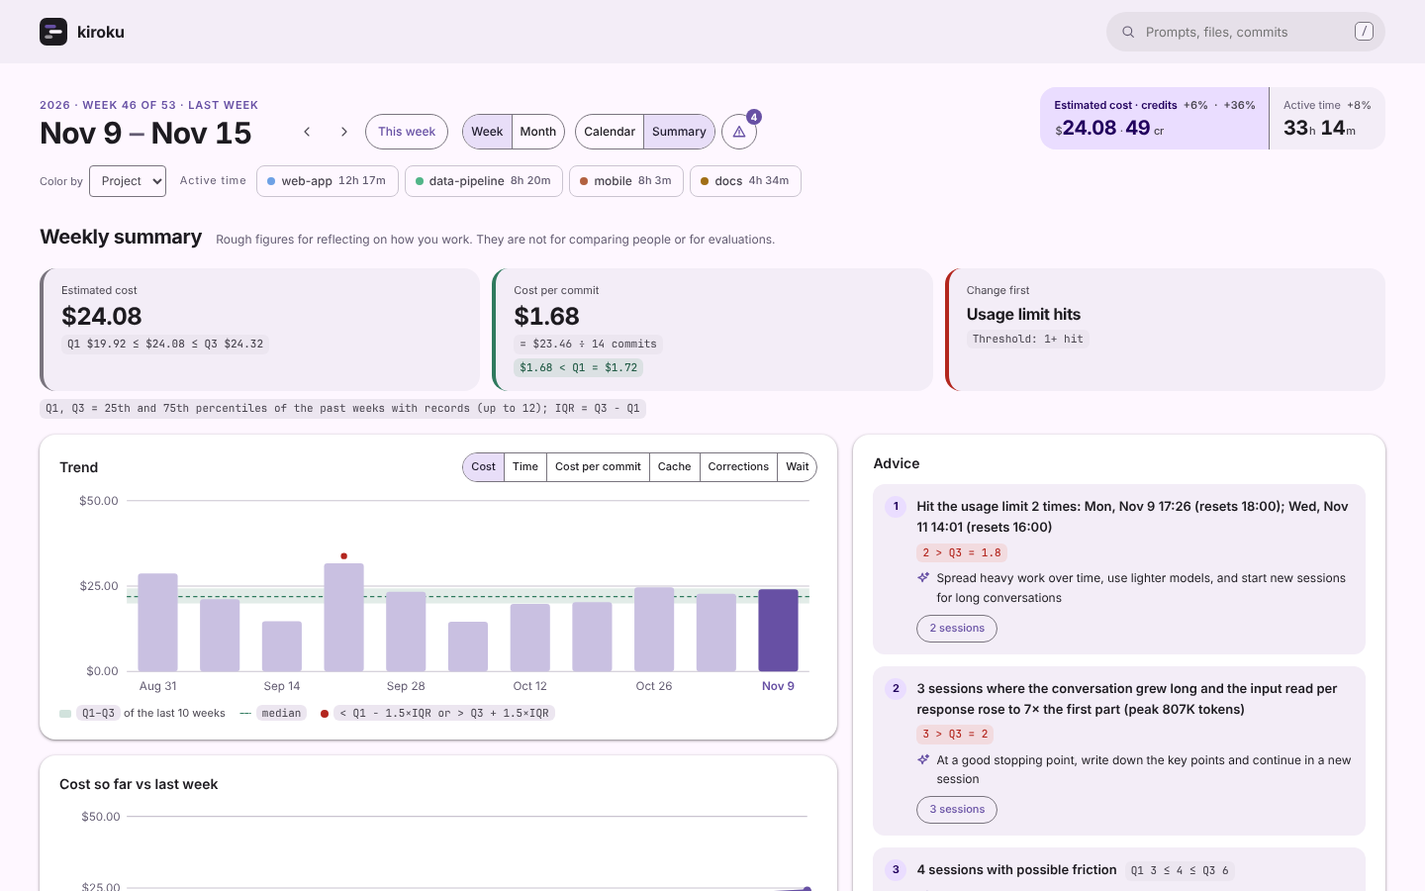
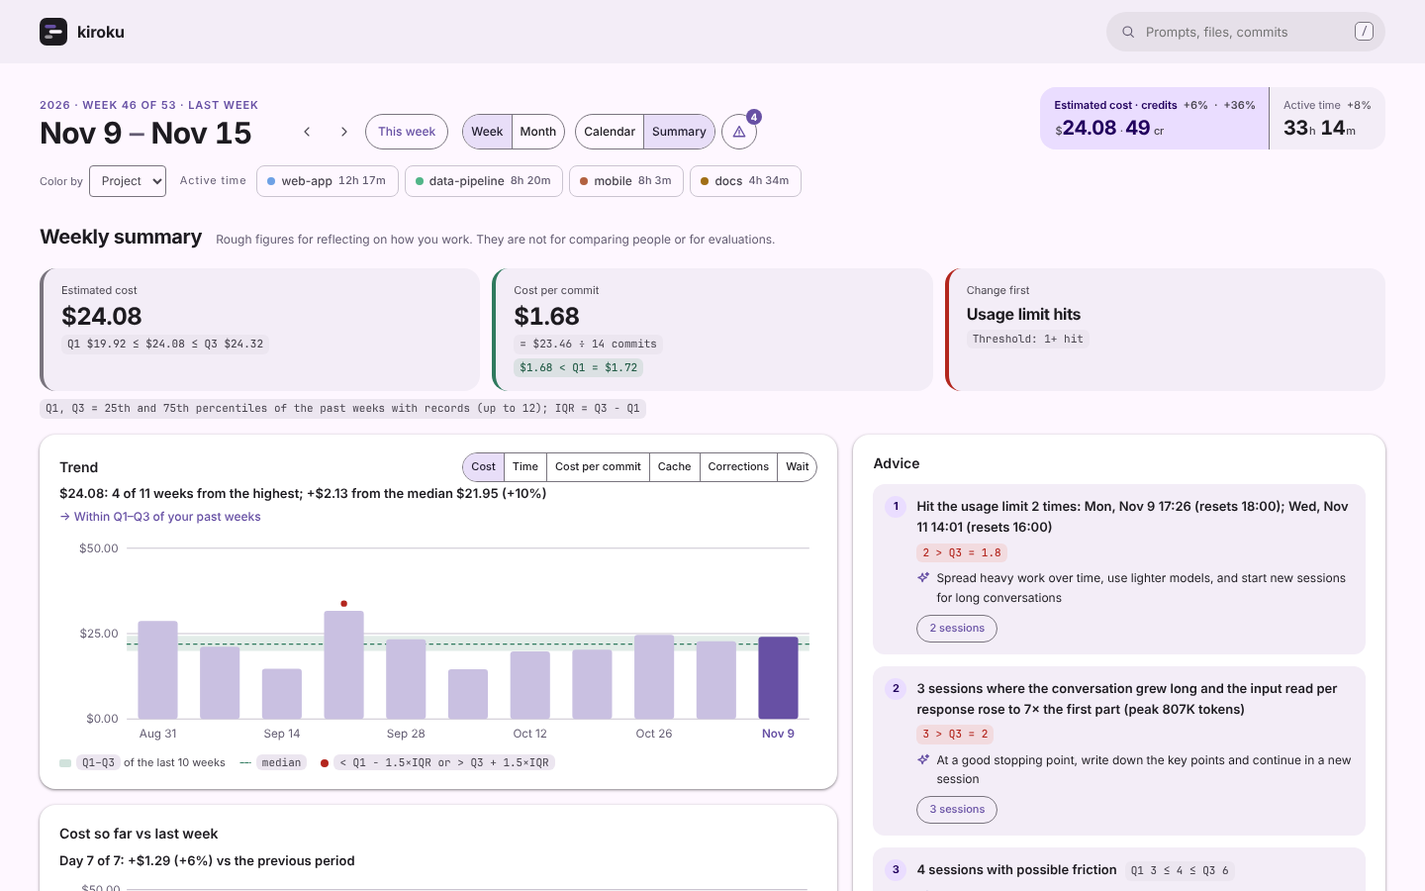
Summary overview: a takeaway and a next step on every chart; no gaps between cards
Every chart now opens with one sentence computed from its data, and,
where the data supports one, a next step with numbers:
- Trend: rank among the periods and the difference from the median;
  which side of Q1-Q3 it is on
- Cumulative: the difference on the same day of the previous period and
  the end at this pace; the daily budget that keeps the period within the
  previous total, or how far over it already is
- Cost by model: the top model's share and how many models hold 80% of
  cost; the cost of short Opus-class sessions with no edits
- Cost by session length (was a count histogram): the bucket with the
  most cost and its share; long sessions whose input per response grew
- Scatter: how many costly sessions had no output and their share
- Heatmap: the busiest three hours and their share; off-hours above Q3

Cards in a row stretch to the same height and the last card of the left
column fills it, so the grid has no gaps; the donut keeps its legend
beside it. A smoke check covers the takeaways and the equal heights on
wide screens. Guide, changelog and screenshots updated.

Changed region(s): [[0.0312, 0.6222, 0.5938, 1.0], [0.0312, 0.5289, 0.375, 0.6222]]

diff --git a/internal/web/js/insight.js b/internal/web/js/insight.js
@@ -28,6 +28,7 @@ function insRange(k, cur, f, low, add, fmt){
 }
 const insName = k => (H()[k] || {}).n || k;
 const insUnit = () => st.mode === "month" ? t("months") : t("weeks");
+const say = (s, then) => (s ? `<p class="isay">${esc(s)}</p>` : "") + (then ? `<p class="ithen">→ ${esc(then)}</p>` : ""); // グラフの読み取り（データから計算した 1 文。見出しのすぐ下）
 // 式の表示：値・式は <code class="ifx"> に入れる（文ではなく、計算だとわかるように）
 const fx = (s, cls = "") => `<code class="ifx${cls}">${esc(s)}</code>`;
 const insDef = n => n == null ? t("Q1, Q3 = 25th and 75th percentiles of the past {unit} with records (up to {n}); IQR = Q3 − Q1", {n: INS_N, unit: insUnit()}) : t("Q1, Q3 = 25th and 75th percentiles of the last {n} {unit}; IQR = Q3 − Q1", {n, unit: insUnit()});
@@ -76,7 +77,10 @@ function insChart(k){
       + ((n - 1 - i) % every === 0 ? `<text class="ixl${last ? " cur" : ""}" x="${cx.toFixed(1)}" y="${Hh - 8}">${esc(lab(p))}</text>` : "")
       + `<rect class="ihit" x="${x(i).toFixed(1)}" y="0" width="${bw.toFixed(1)}" height="${Hh}"${tipAttr(p.label, v == null ? t("No records") : fmtM(k, v), last && proj != null ? t("At this pace: {v}", {v: fmtM(k, proj)}) : "")}/></g>`; }).join("");
   const list = ps.filter(x => x.v != null).map(x => `${x.p.label} ${fmtM(k, x.v)}`).join(LSEP());
-  return `<figure class="insfig"><svg viewBox="0 0 ${W} ${Hh}" role="img" aria-label="${esc(t("{metric} over the last {n} {unit}", {metric: insName(k), n, unit: insUnit()}))}">${ticks}${band}${bars}</svg>
+  let sy = ""; if (b && b.q1 != null){ const all = [...b.xs, b.v], r = 1 + b.xs.filter(z => z > b.v).length, d = b.v - b.med, pc = b.med ? Math.round(d * 100 / b.med) : null;
+    sy = t("{x}: {r} of {n} {unit} from the highest; {d} from the median {m}{pc}", {x: (b.part ? t("pace") + " " : "") + fmtM(k, b.v), r, n: all.length, unit: insUnit(), d: (d >= 0 ? "+" : "−") + fmtM(k, Math.abs(d)), m: fmtM(k, b.med), pc: pc == null ? "" : ` (${pc >= 0 ? "+" : ""}${pc}%)`}); }
+  const th = !b || b.q1 == null ? "" : b.better === false ? t("Worse side of Q1–Q3; the advice lists where it came from") : b.better ? t("Better side of Q1–Q3; keep what you changed") : t("Within Q1–Q3 of your past {unit}", {unit: insUnit()});
+  return `${say(sy, th)}<figure class="insfig"><svg viewBox="0 0 ${W} ${Hh}" role="img" aria-label="${esc(t("{metric} over the last {n} {unit}", {metric: insName(k), n, unit: insUnit()}))}">${ticks}${band}${bars}</svg>
     <figcaption><span class="lg iband">${fx(`Q1–Q3`)} ${esc(t("of the last {n} {unit}", {n: b ? b.n : 0, unit: insUnit()}))}</span><span class="lg imed">${fx(t("median"))}</span>${proj != null ? `<span class="lg iproj">${fx(`${t("pace")} = ${t("so far")} × ${t("period")} ÷ ${t("elapsed")}`)}</span>` : ""}<span class="lg iout">${fx(`< Q1 − 1.5×IQR ${t("or")} > Q3 + 1.5×IQR`)}</span></figcaption>
     <p class="sr">${esc(list)} — ${esc(insPosText(b))}</p></figure>`;
 }
@@ -99,7 +103,7 @@ function insightH(F){
     <div class="insgrid"><div class="insleft"><div class="inscol"><div class="inshead"><h4>${esc(t("Trend"))}</h4><div class="segc insk" role="group" aria-label="${esc(t("Metric"))}">${tabs}</div></div>${insChart(k)}</div>
     ${card(st.mode === "month" ? t("Cost so far vs last month") : t("Cost so far vs last week"), insCum())}</div>
     ${card(t("Advice"), insAdvice(F), " insadvc")}</div>
-    <div class="insrow two">${card(t("Cost by model"), insDonut())}${card(t("Session length"), insHist())}</div>
+    <div class="insrow two">${card(t("Cost by model"), insDonut())}${card(t("Cost by session length"), insHist())}</div>
     <div class="insrow two">${card(t("Cost and outputs"), insScatter())}${card(t("When you worked"), insHeat())}</div></section>`;
 }
 function bindInsight(R){
@@ -123,7 +127,10 @@ function insScatter(){
   const pts = xs.map((p, i) => { const hit = p.o === 0 && p.c >= thr, jy = p.o === 0 ? -((i * 37) % 9) - 3 : 0; // 成果 0 の点は重なりやすいので、縦に少しずらす
     return `<circle class="ipt${hit ? " bad" : ""}" cx="${x(p.c).toFixed(1)}" cy="${(y(p.o) + jy).toFixed(1)}" r="${narrow ? 4 : 5}" tabindex="0" role="button" data-sid="${esc(p.s.id)}" aria-label="${esc(`${p.s.title || p.s.id}: ${usd(p.c)}, ${t("{n} outputs", {n: p.o})}`)}"${tipAttr(p.s.title || "", `${usd(p.c)} · ${t("{n} outputs", {n: p.o})}`, p.s.project)}/>`; }).join("");
   const note = `${t("outputs")} = 0 ∧ ${t("cost")} ≥ ${usd(thr)} : ${bad.length} · ${usd(badC)}`;
-  return `<figure class="insfig"><svg viewBox="0 0 ${W} ${Hh}" role="group" aria-label="${esc(t("Cost and outputs per session"))}">${xt}${yt}${zone}${pts}
+  const tq = xs.filter(p => p.c >= thr).length, all$ = cs.reduce((a, c) => a + c, 0);
+  const sy = t("{m} of the {k} sessions costing {thr} or more had no output: {usd} = {pc}% of session cost", {m: bad.length, k: tq, thr: usd(thr), usd: usd(badC), pc: all$ ? Math.round(badC * 100 / all$) : 0});
+  const th = bad.length ? t("Open the red points: research is fine; work that stopped partway is the cost to cut") : "";
+  return `${say(sy, th)}<figure class="insfig"><svg viewBox="0 0 ${W} ${Hh}" role="group" aria-label="${esc(t("Cost and outputs per session"))}">${xt}${yt}${zone}${pts}
     <text class="iax" x="${W - R}" y="${Hh - B - 4}">${esc(t("Estimated cost →"))}</text><text class="iax st" x="${L + 4}" y="${T + 10}">${esc(t("↑ Commits and PRs"))}</text></svg><figcaption><span class="lg izone">${fx(note)}</span></figcaption><p class="ifxs">${fx(`${t("outputs")} = ${t("commits")} + PRs`)}${fx(`${usd(thr)} = max($0.50, P75(${t("cost")}))`)}</p></figure>`;
 }
 /* 曜日×時間帯のヒートマップ：表示中の期間に AI と作業していた時間（重なりは 1 回）。月の表示では曜日ごとに足す。
@@ -147,7 +154,9 @@ function insHeat(){
   const cells = g.map((r, d) => `<span class="ihd">${esc(dow(days[d]))}</span>` + r.map((v, h) => `<span class="ihc${d >= 5 || h < 9 || h >= 18 ? " off" : ""}" style="--a:${v ? (0.12 + 0.88 * v / max).toFixed(2) : 0}"${tipAttr(`${dow(days[d])} ${h}:00–${h + 1}:00`, v ? dur(v) : t("None"))}></span>`).join("")).join("");
   const hrs = `<span></span>` + Array.from({length: 24}, (_, h) => `<span class="ihh">${h % 3 ? "" : h}</span>`).join("");
   const peak = `${dow(days[best.d])} ${best.h}–${best.h + 3}${JA ? "時" : ":00"}`;
-  return `<div class="ihgrid" role="img" aria-label="${esc(t("Busiest: {p}", {p: peak}))}">${hrs}${cells}</div>
+  const tot = insOffM(g).all, sy = t("Busiest {p}: {h} = {pc}% of active time; off-hours {off}%", {p: peak, h: dur(best.v), pc: tot ? Math.round(best.v * 100 / tot) : 0, off: off == null ? "—" : off});
+  const th = b && b.q1 != null && b.pos === "high" ? t("Off-hours share {off}% is above Q3 = {q3}% of your past {unit}", {off, q3: Math.round(b.q3), unit: insUnit()}) : "";
+  return `${say(sy, th)}<div class="ihgrid" role="img" aria-label="${esc(t("Busiest: {p}", {p: peak}))}">${hrs}${cells}</div>
     <p class="ifxs">${fx(`${t("peak 3h")} = ${peak} (${dur(best.v)})`)}${off != null ? fx(`${t("off-hours")} = ${dur(insOffM(g).off)} ÷ ${dur(insOffM(g).all)} = ${off}%`) : ""}${off != null ? insChip(b) : ""}</p>
     <p class="note">${esc(t("Off-hours: Saturday, Sunday, and weekdays before 9:00 or from 18:00"))}</p>`;
 }
@@ -164,8 +173,12 @@ function insCum(){
   const x = i => L + (W - L - R) * (n === 1 ? 0 : i / (n - 1)), y = v => T + (Hh - T - B) * (1 - v / top), line = a => a.map((v, i) => `${x(i).toFixed(1)},${y(v).toFixed(1)}`).join(" ");
   const ticks = [0, top / 2, top].map(v => `<g class="itk"><line x1="${L}" x2="${W - R}" y1="${y(v).toFixed(1)}" y2="${y(v).toFixed(1)}"/><text x="${L - 6}" y="${(y(v) + 4).toFixed(1)}">${esc(fm(v))}</text></g>`).join("");
   const a = new Date(period().ws * 1000), xl = [0, n - 1].map(i => `<text class="ixl ${i ? "e" : "s"}" x="${x(i).toFixed(1)}" y="${Hh - 6}">${esc(dMD(addDays(a, i)))}</text>`).join(""); // 両端の日付は、内側に寄せる（はみ出さないように）
-  const last = cur.length - 1, diff = prev.length > last ? cur[last] - prev[last] : null;
-  return `<figure class="insfig"><svg viewBox="0 0 ${W} ${Hh}" role="img" aria-label="${esc(`${fm(cur[last])}${prev.length ? ` / ${fm(prev[Math.min(last, prev.length - 1)])}` : ""}`)}">${ticks}${xl}
+  const last = cur.length - 1, diff = prev.length > last ? cur[last] - prev[last] : null, ptot = prev.length ? prev[prev.length - 1] : null;
+  const sy = diff == null ? "" : t("Day {d} of {n}: {diff} ({pc}) vs the previous period", {d: last + 1, n, diff: (diff >= 0 ? "+" : "−") + fm(Math.abs(diff)), pc: prev[last] ? `${diff >= 0 ? "+" : ""}${Math.round(diff * 100 / prev[last])}%` : "—"})
+    + (fr < 1 && ptot != null ? t("; at this pace {end} at the end vs {prev}", {end: fm(cur[last] / fr), prev: fm(ptot)}) : "");
+  const left = n - (last + 1), rem = ptot == null ? null : ptot - cur[last];
+  const th = fr >= 1 || rem == null || !useCost ? "" : rem <= 0 ? t("Already {x} over the previous period's total {prev}", {x: fm(-rem), prev: fm(ptot)}) : left > 0 ? t("To stay within the previous period's {prev}: at most {rem} in the {d} left = {per}/day", {prev: fm(ptot), rem: fm(rem), d: plural(left, "day"), per: fm(rem / left)}) : "";
+  return `${say(sy, th)}<figure class="insfig"><svg viewBox="0 0 ${W} ${Hh}" role="img" aria-label="${esc(`${fm(cur[last])}${prev.length ? ` / ${fm(prev[Math.min(last, prev.length - 1)])}` : ""}`)}">${ticks}${xl}
     ${prev.length ? `<polyline class="iprev" points="${line(prev)}"/>` : ""}<polyline class="icum" points="${line(cur)}"/><circle class="icumd" cx="${x(last).toFixed(1)}" cy="${y(cur[last]).toFixed(1)}" r="4"/></svg>
     <figcaption><span class="lg icum">${esc(st.mode === "month" ? t("This month") : t("This week"))} <b>${esc(fm(cur[last]))}</b></span>${prev.length ? `<span class="lg iprev">${esc(st.mode === "month" ? t("Last month") : t("Last week"))}</span>` : ""}</figcaption>${diff != null ? `<p class="ifxs">${fx(`${fm(cur[last])} − ${fm(prev[last])} = ${(diff >= 0 ? "+" : "−") + fm(Math.abs(diff))}`, diff > 0 ? " bad" : " good")}<span class="note">${esc(t("vs the same day of the previous period ({d})", {d: dMD(addDays(new Date(periodBack(1).ws * 1000), last))}))}</span></p>` : ""}</figure>`;
 }
@@ -178,19 +191,28 @@ function insDonut(){
     const d = v >= tot ? `M${C},${C - R0}A${R0},${R0} 0 1 1 ${C - .01},${C - R0}L${C - .01},${C - r0}A${r0},${r0} 0 1 0 ${C},${C - r0}Z` : `M${p(R0, a0)}A${R0},${R0} 0 ${big} 1 ${p(R0, a1)}L${p(r0, a1)}A${r0},${r0} 0 ${big} 0 ${p(r0, a0)}Z`; a0 = a1; return d; };
   const col = i => `var(--c${i % 8})`;
   const segs = top.map((r, i) => `<path d="${arc(r[1], i)}" style="fill:${col(i)}"${tipAttr(r[0], `${usd(r[1])} · ${Math.round(r[1] * 100 / tot)}%`)}/>`).join("");
-  return `<figure class="insfig idonut"><svg viewBox="0 0 140 140" role="img" aria-label="${esc(top.map(r => `${r[0]} ${Math.round(r[1] * 100 / tot)}%`).join(", "))}">${segs}<text class="idc" x="70" y="75">${esc(usd(tot))}</text></svg>
+  let acc = 0, k80 = 0; for (const r of top){ acc += r[1]; k80++; if (acc >= tot * .8) break; }
+  const sy = t("{model}: {pc}% of cost ({usd}); 80% of cost is in {k} of {n} models", {model: top[0][0], pc: Math.round(top[0][1] * 100 / tot), usd: usd(top[0][1]), k: k80, n: ms.length});
+  const {ws: dws, we: dwe} = period(), LT = lightOf(dws, dwe);
+  const th = LT.c >= 0.01 ? t("{usd} went to short Opus-class sessions with no edits ({n}): candidates for a lighter model", {usd: usd(LT.c), n: plural(LT.xs.length, "session")}) : "";
+  return `${say(sy, th)}<figure class="insfig idonut"><svg viewBox="0 0 140 140" role="img" aria-label="${esc(top.map(r => `${r[0]} ${Math.round(r[1] * 100 / tot)}%`).join(", "))}">${segs}<text class="idc" x="70" y="75">${esc(usd(tot))}</text></svg>
     <ul class="idleg">${top.map((r, i) => `<li><i style="background:${col(i)}"></i><span title="${esc(r[0])}">${esc(r[0])}</span><span class="iv">${esc(usd(r[1]))}</span><b>${Math.round(r[1] * 100 / tot)}%</b></li>`).join("")}</ul></figure>
     <p class="ifxs">${fx(`% = ${t("model cost")} ÷ ${usd(tot)}`)}</p>`;
 }
-/* ヒストグラム：表示中の期間に動いたセッションの長さ（期間の中の作業時間）の分布。中央値の入る階級を濃く */
+/* セッションの長さ別の費用：表示中の期間に動いたセッションを、期間の中の作業時間で 6 つに分け、区分ごとの推定費用の合計を棒に（件数は棒の下）。
+   費用の記録がなければ件数で。どの長さのセッションに費用が集まっているかを読む */
 function insHist(){
-  const {ws, we} = period(), ms = DATA.filter(s => inP(s, ws, we)).map(sesMin).filter(m => m > 0); if (ms.length < 3) return "";
-  const edges = [0, 5, 15, 30, 60, 120, Infinity], labs = ["<5m", "5–15m", "15–30m", "30–60m", "1–2h", "2h+"];
-  const cnt = labs.map((_, i) => ms.filter(m => m >= edges[i] && m < edges[i + 1]).length), med = insQuant(ms, .5), mi = edges.findIndex((e, i) => med >= e && med < edges[i + 1]);
-  const max = Math.max(...cnt), W = innerWidth < 600 ? 360 : 560, Hh = 180, B = 22, T = 16, bw = W / labs.length;
-  const bars = cnt.map((c, i) => { const h = (Hh - B - T) * c / max, xx = i * bw;
-    return `<rect class="ihb${i === mi ? " med" : ""}" x="${(xx + bw * .14).toFixed(1)}" y="${(Hh - B - h).toFixed(1)}" width="${(bw * .72).toFixed(1)}" height="${h.toFixed(1)}" rx="3"${tipAttr(labs[i], plural(c, "session"))}/>`
-      + (c ? `<text class="ihn" x="${(xx + bw / 2).toFixed(1)}" y="${(Hh - B - h - 4).toFixed(1)}">${c}</text>` : "") + `<text class="ixl" x="${(xx + bw / 2).toFixed(1)}" y="${Hh - 6}">${labs[i]}</text>`; }).join("");
-  return `<figure class="insfig ihist"><svg viewBox="0 0 ${W} ${Hh}" role="img" aria-label="${esc(labs.map((l, i) => `${l} ${cnt[i]}`).join(", "))}">${bars}</svg>
-    <p class="ifxs">${fx(`${t("median")}(${t("active time of {n} sessions", {n: ms.length})}) = ${dur(med)}`)}</p></figure>`;
+  const {ws, we} = period(), ss = DATA.filter(s => inP(s, ws, we)).map(s => ({m: sesMin(s), c: s.cost || 0})).filter(x => x.m > 0); if (ss.length < 3) return "";
+  const edges = [0, 5, 15, 30, 60, 120, Infinity], labs = ["<5m", "5–15m", "15–30m", "30–60m", "1–2h", "2h+"], useC = ss.some(x => x.c > 0);
+  const bins = labs.map((_, i) => ss.filter(x => x.m >= edges[i] && x.m < edges[i + 1])), val = b => useC ? b.reduce((a, x) => a + x.c, 0) : b.length;
+  const vs = bins.map(val), tot = vs.reduce((a, v) => a + v, 0), mi = vs.indexOf(Math.max(...vs)), med = insQuant(ss.map(x => x.m), .5);
+  const max = Math.max(...vs) || 1, W = innerWidth < 600 ? 360 : 560, Hh = 180, B = 34, T = 16, bw = W / labs.length, fv = v => useC ? usd(v) : String(v);
+  const bars = vs.map((v, i) => { const h = (Hh - B - T) * v / max, xx = i * bw;
+    return `<rect class="ihb${i === mi ? " med" : ""}" x="${(xx + bw * .14).toFixed(1)}" y="${(Hh - B - h).toFixed(1)}" width="${(bw * .72).toFixed(1)}" height="${h.toFixed(1)}" rx="3"${tipAttr(labs[i], plural(bins[i].length, "session"), useC ? usd(v) : "")}/>`
+      + (v ? `<text class="ihn" x="${(xx + bw / 2).toFixed(1)}" y="${(Hh - B - h - 4).toFixed(1)}">${esc(fv(v))}</text>` : "") + `<text class="ixl" x="${(xx + bw / 2).toFixed(1)}" y="${Hh - 18}">${labs[i]}</text><text class="ixl sub" x="${(xx + bw / 2).toFixed(1)}" y="${Hh - 4}">n=${bins[i].length}</text>`; }).join("");
+  const sy = useC ? t("Sessions of {bin}: {pc}% of cost ({usd}) in {n} sessions", {bin: labs[mi], pc: Math.round(vs[mi] * 100 / tot), usd: usd(vs[mi]), n: bins[mi].length}) : t("Most sessions ran {bin} ({n})", {bin: labs[mi], n: vs[mi]});
+  const LC = useC ? longCtxOf(ws, we) : [];
+  const th = mi >= 4 && LC.length ? t("{n} of the long sessions grew their input per response to up to {x}× the start: split them at a stopping point", {n: LC.length, x: Math.round(Math.max(...LC.map(s => s.ctx[1] / s.ctx[0])))}) : "";
+  return `${say(sy, th)}<figure class="insfig ihist"><svg viewBox="0 0 ${W} ${Hh}" role="img" aria-label="${esc(labs.map((l, i) => `${l} ${fv(vs[i])} n=${bins[i].length}`).join(", "))}">${bars}</svg>
+    <p class="ifxs">${fx(`${t("median")}(${t("active time of {n} sessions", {n: ss.length})}) = ${dur(med)}`)}${useC ? fx(`% = ${t("cost of the bin")} ÷ ${usd(tot)}`) : ""}</p></figure>`;
 }

diff --git a/internal/web/js/i18n.js b/internal/web/js/i18n.js
@@ -133,6 +133,25 @@ const JA_TEXT = {
   "Copy this reply": "この応答をコピー",
   "Copied the first {n} characters": "先頭の {n} 文字をコピーしました",
   "Copied": "コピーしました",
+  "Worse side of Q1–Q3; the advice lists where it came from": "Q1–Q3 の悪い側。原因の候補はアドバイスに",
+  "Better side of Q1–Q3; keep what you changed": "Q1–Q3 のよい側。変えたことを続ける",
+  "Within Q1–Q3 of your past {unit}": "過去の{unit}の Q1–Q3 の内",
+  "Already {x} over the previous period's total {prev}": "前の期間の合計 {prev} をすでに {x} 超えている",
+  "To stay within the previous period's {prev}: at most {rem} in the {d} left = {per}/day": "前の期間の {prev} に収めるには：残り {d}で {rem} まで = 1 日 {per}",
+  "{usd} went to short Opus-class sessions with no edits ({n}): candidates for a lighter model": "うち {usd} は編集のない短い Opus 系のセッション（{n}）：軽いモデルに替えられる候補",
+  "{n} of the long sessions grew their input per response to up to {x}× the start: split them at a stopping point": "長いセッションのうち {n} 件は 1 回の応答で読む入力が最初の最大 {x} 倍に：区切りのよいところで分ける",
+  "Open the red points: research is fine; work that stopped partway is the cost to cut": "赤い点を開く：調査なら妥当、途中で止まった作業なら削れる費用",
+  "Off-hours share {off}% is above Q3 = {q3}% of your past {unit}": "時間外 {off}% は過去の{unit}の Q3 = {q3}% を上回る",
+  "{x}: {r} of {n} {unit} from the highest; {d} from the median {m}{pc}": "{x}：{n} {unit}中 高い方から {r} 番目、中央値 {m} との差 {d}{pc}",
+  "Day {d} of {n}: {diff} ({pc}) vs the previous period": "{n} 日中 {d} 日目：前の期間の同じ日より {diff}（{pc}）",
+  "; at this pace {end} at the end vs {prev}": "。このペースなら期間末 {end}（前の期間 {prev}）",
+  "{model}: {pc}% of cost ({usd}); 80% of cost is in {k} of {n} models": "{model} が費用の {pc}%（{usd}）。費用の 80% は {n} モデル中 {k} モデル",
+  "{m} of the {k} sessions costing {thr} or more had no output: {usd} = {pc}% of session cost": "費用 {thr} 以上の {k} セッション中 {m} 件は成果なし：{usd} = セッションの費用の {pc}%",
+  "Busiest {p}: {h} = {pc}% of active time; off-hours {off}%": "最多は {p}：{h} = 稼働時間の {pc}%。時間外 {off}%",
+  "Sessions of {bin}: {pc}% of cost ({usd}) in {n} sessions": "長さ {bin} のセッション：{n} 件で費用の {pc}%（{usd}）",
+  "Most sessions ran {bin} ({n})": "最も多い長さは {bin}（{n} 件）",
+  "cost of the bin": "区分の費用",
+  "Cost by session length": "セッションの長さ別の費用",
   "Q1, Q3 = 25th and 75th percentiles of the past {unit} with records (up to {n}); IQR = Q3 − Q1": "Q1, Q3 = 記録のある過去の{unit}（最大 {n}）の 25・75 パーセンタイル、IQR = Q3 − Q1",
   "Q1, Q3 = 25th and 75th percentiles of the last {n} {unit}; IQR = Q3 − Q1": "Q1, Q3 = 過去 {n} {unit}の 25・75 パーセンタイル、IQR = Q3 − Q1",
   "Q1–Q3: needs {min} past {unit} (have {n})": "Q1–Q3：過去 {min} {unit}分が必要（今は {n}）",
@@ -160,7 +179,6 @@ const JA_TEXT = {
   "Cost so far vs last month": "費用の積み上がり（先月と比べて）",
   "Cost so far vs last week": "費用の積み上がり（先週と比べて）",
   "Cost by model": "モデル別の費用",
-  "Session length": "セッションの長さ",
   "Busiest: {p}": "いちばん多い時間帯：{p}",
   "Other": "その他",
   "{n} outputs": "成果 {n}",

diff --git a/internal/web/style.css b/internal/web/style.css
@@ -1014,3 +1014,13 @@ header{background:var(--s-cont);border-bottom:0}
 .itile .ifx{max-width:100%}
 .idleg .iv{flex:none;color:var(--ink-3);font-variant-numeric:tabular-nums;margin-right:6px}
 .ifxs.insdef{margin:-8px 0 16px}
+/* カードの間に隙間を作らない：同じ段のカードは高さをそろえ、左の列の下のカードが残りを埋める */
+.insgrid,.insrow{align-items:stretch}
+.insleft>.inscol:last-child{flex:1}
+.inscol{display:flex;flex-direction:column}.inscol>.insfig{flex:1;display:flex;flex-direction:column}.inscol>.insfig>figcaption,.inscol>.insfig>.ifxs:last-child{margin-top:auto;padding-top:8px}
+.idonut{flex-direction:row}
+/* グラフの読み取り：見出しのすぐ下に、データから計算した 1 文 */
+.isay{margin:-4px 0 10px;font-size:var(--fs-md);font-weight:600;color:var(--ink);line-height:1.45}
+.insfig .ixl.sub{font-size:10px;fill:var(--ink-3)}
+.ithen{margin:-6px 0 10px;font-size:var(--fs-sm);color:var(--acc-ink);font-weight:500}
+.inscol>.insfig.idonut{flex-direction:row;align-items:center}

diff --git a/docs/guide.md b/docs/guide.md
@@ -171,12 +171,14 @@ Things to know:
 
 The summary opens with an overview of charts, computed in the browser from your history (no AI). Figures are compared with your own past periods as inequalities, in a monospace box, such as `$31.23 > Q3 = $27.35` or `Q1 $13.42 ≤ $18.26 ≤ Q3 $27.35`. Q1 and Q3 are the 25th and 75th percentiles of up to your last 12 weeks or months with records (periods before your history starts are left out); IQR = Q3 − Q1, and a value beyond Q3 + 1.5×IQR or Q1 − 1.5×IQR is marked as such. They need 4 past periods. In a period in progress, cost and time are compared at their pace: pace = so far × days in the period ÷ days elapsed. Figures computed from others show their formula, such as cost per commit = cost ÷ commits, the share outside working hours = off-hours time ÷ active time, or the difference from the previous period on the same day.
 
+Each chart opens with a takeaway computed from the data (for example "pace $22.86: 4 of 6 weeks from the highest; −$2.45 from the median $25.31") and, where the data supports one, a next step with numbers (for example "To stay within the previous period's $31.23: at most $12.97 in the 1 day left"). Cards in the same row are the same height.
+
 - **Three tiles**: estimated cost (with its pace formula), cost per commit (with its formula; or active time), and what to change first with its threshold
 - **Trend**: bars for the last periods of a metric you pick (cost, time, cost per commit, cache, corrections, wait), with the usual range as a band, the median dashed, the pace of the period in progress as a dashed outline, and red dots on periods far outside the range (1.5 times its width beyond it)
 - **Cost so far vs last period**: the cumulative cost (or active time) by day, against the previous period's line
 - **Advice**: up to three items from "Worth a look", each with its comparison, what to try and its sessions (point at an item for why it matters), and one metric on the better side of Q1–Q3
 - **Cost by model**: a donut of estimated cost per model
-- **Session length**: how many sessions ran how long, with the median
+- **Cost by session length**: estimated cost per length bucket (under 5 minutes to over 2 hours), with the number of sessions in each and the median length
 - **Cost and outputs**: each session by estimated cost and commits plus pull requests; costly sessions (top quarter, $0.5 or more) with no output are red. Press a point to open its session
 - **When you worked**: a weekday × hour heatmap of active time (overlapping sessions count once), the busiest three hours and the share outside weekday 9:00–18:00
 

diff --git a/changes/summary-takeaways.changed.md b/changes/summary-takeaways.changed.md
@@ -1,0 +1,1 @@
+- Summary overview: every chart opens with a takeaway computed from the data, such as "pace $22.86: 4 of 6 weeks from the highest; −$2.45 from the median" or "Sessions of 30–60m: 40% of cost in 12 sessions", and, where the data supports one, a next step with numbers, such as how much a day keeps you within the previous period's total or how much went to short Opus-class sessions with no edits. "Session length" now shows cost per length bucket (with the number of sessions). Cards in the same row are the same height, so there are no gaps between them
